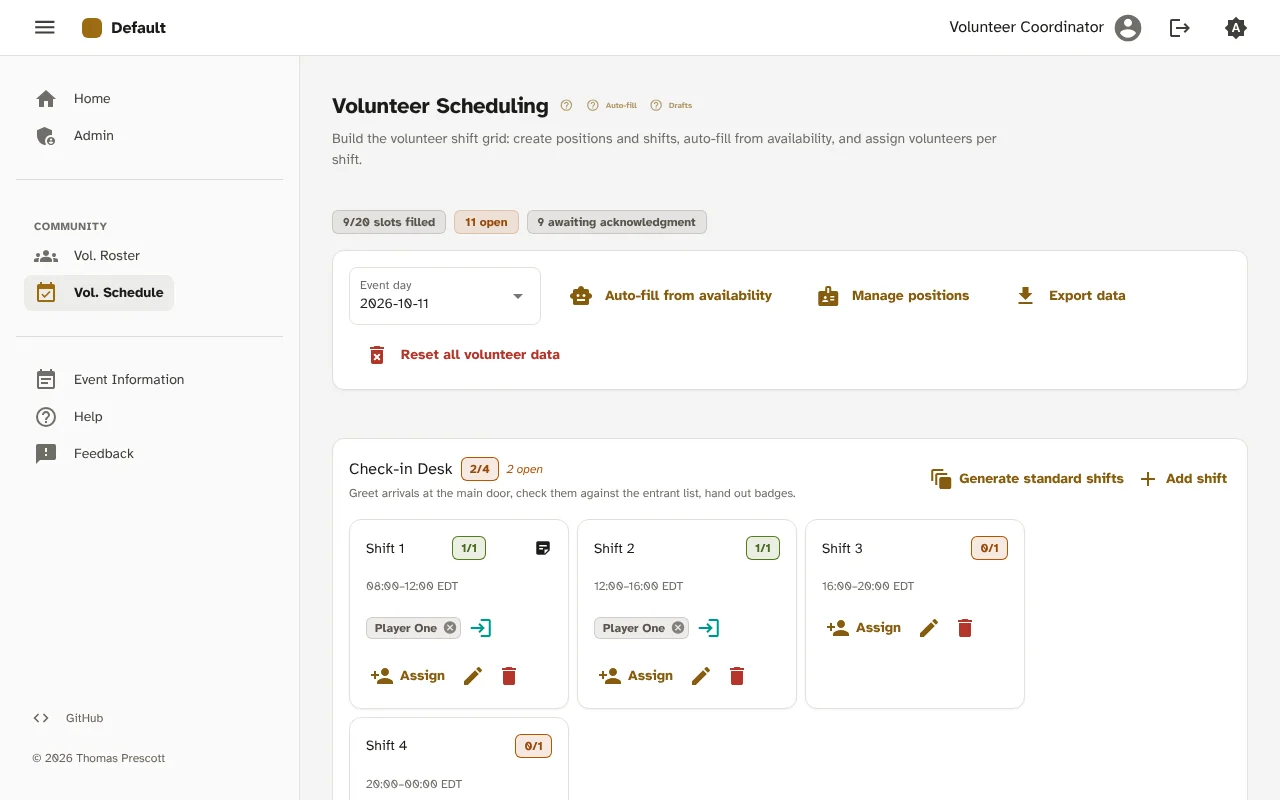
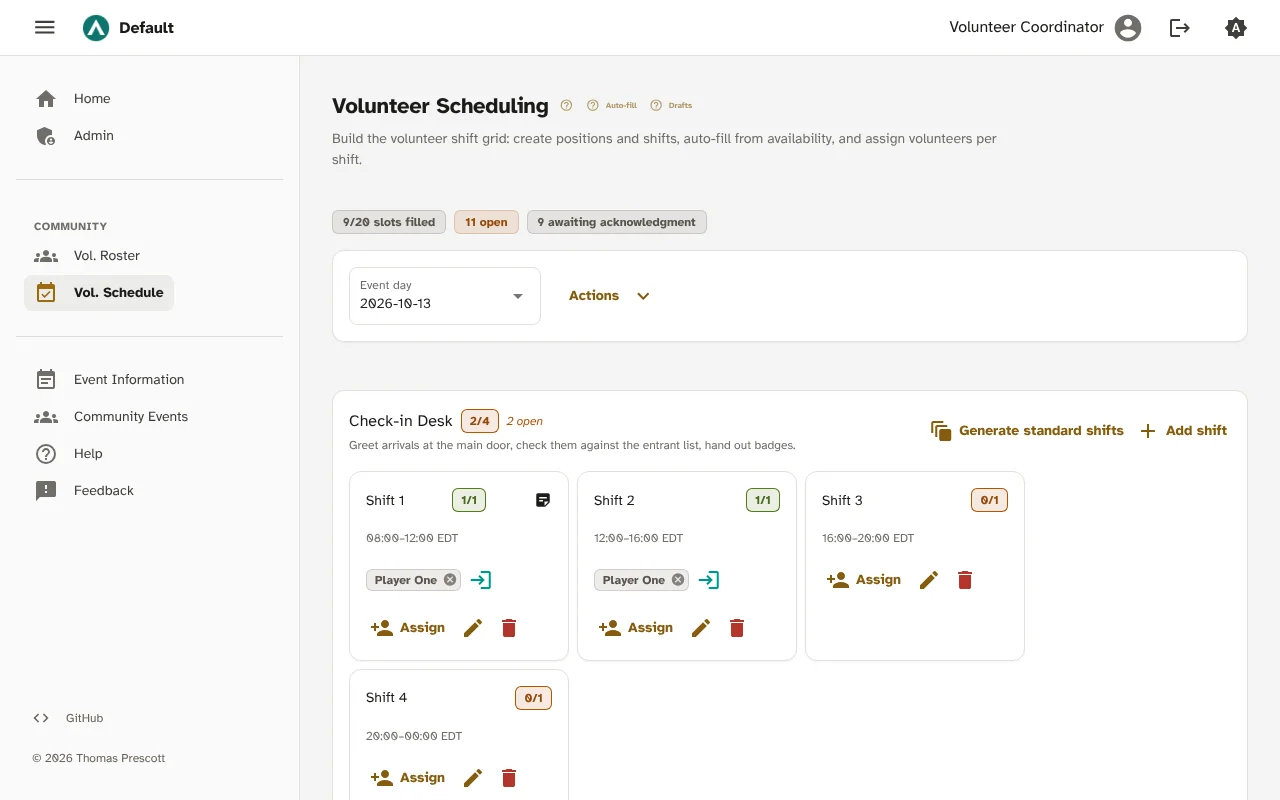
Put Vol. Schedule toolbar actions behind one Actions menu
Auto-fill, Manage positions, Export data and Reset all volunteer data
were four buttons beside the day picker that wrapped onto several lines
on a phone. They now share one Actions menu on every screen size, with
the reset set apart below a separator. Help text and the schedule
screenshot follow.

Claude-Session: https://claude.ai/code/session_01P7YforGRp1evScD3rmiSyD

diff --git a/pages/admin_tabs/admin_volunteers.py b/pages/admin_tabs/admin_volunteers.py
@@ -51,6 +51,13 @@ def stored_or_default_day(
     return stored if stored in day_options else fallback
 
 
+def _menu_action(icon: str, label: str, on_click, negative: bool = False) -> None:
+    with ui.menu_item(on_click=on_click).classes('text-negative' if negative else ''):
+        with ui.item_section().props('avatar'):
+            ui.icon(icon)
+        ui.item_section(label)
+
+
 async def admin_volunteers_page(day: str | None = None) -> None:
     actor = await get_user_from_discord_id(app.storage.user.get('discord_id'))
     if not await AuthService.can_manage_volunteers(actor):
@@ -147,15 +154,14 @@ async def admin_volunteers_page(day: str | None = None) -> None:
                     refresh_all()
                 day_select.on_value_change(on_day_change)
 
-                ui.button('Auto-fill from availability', icon='smart_toy',
-                          on_click=lambda: auto_fill()).props('flat color=primary')
-                ui.button('Manage positions', icon='badge',
-                          on_click=lambda: open_positions_dialog()).props('flat')
-                ui.button('Export data', icon='download',
-                          on_click=lambda: VolunteerExportDialog().open()) \
-                    .props('flat').tooltip('Download the roster, availability and schedule as CSVs')
-                ui.button('Reset all volunteer data', icon='delete_forever',
-                          on_click=lambda: open_reset_dialog()).props('flat color=negative')
+                with ui.button('Actions').props('flat color=primary icon-right=expand_more'):
+                    with ui.menu():
+                        _menu_action('smart_toy', 'Auto-fill from availability', lambda: auto_fill())
+                        _menu_action('badge', 'Manage positions', lambda: open_positions_dialog())
+                        _menu_action('download', 'Export data', lambda: VolunteerExportDialog().open())
+                        ui.separator()
+                        _menu_action('delete_forever', 'Reset all volunteer data',
+                                     lambda: open_reset_dialog(), negative=True)
 
         # --- Draft banner ------------------------------------------------
         banner_container = ui.column().classes('full-width')

diff --git a/application/help/content/coordinating-volunteers.md b/application/help/content/coordinating-volunteers.md
@@ -16,7 +16,8 @@ role can open. The roster, hour totals and the export are in
 
 :::snippet vol-schedule
 **Vol. Schedule** shows one event day at a time. Pick the day at the top; the
-list comes from the event dates in Settings → Event. A day runs from midnight to
+list comes from the event dates in Settings → Event. The **Actions** menu beside
+it holds auto-fill, positions, the export and the reset. A day runs from midnight to
 6am the next morning, so a shift that ends after midnight still shows on the day
 it started.
 
@@ -28,11 +29,11 @@ Below that, every active position gets a card with its shifts for the day. A
 shift's badge reads filled/needed and turns amber while it's short.
 :::
 
-![Vol. Schedule for one event day: the coverage chips, the day picker and buttons, and the Check-in Desk position with its four shifts](/static/help/coordinating-volunteers/schedule-desktop.webp)
+![Vol. Schedule for one event day: the coverage chips, the day picker and Actions menu, and the Check-in Desk position with its four shifts](/static/help/coordinating-volunteers/schedule-desktop.webp)
 
 ## Positions
 
-A position is a job, like Registration or Stage Crew. **Manage positions** lists
+A position is a job, like Registration or Stage Crew. **Actions → Manage positions** lists
 them all and opens each one for editing.
 
 | Field | What it does |
@@ -128,7 +129,7 @@ and talk to you.
 ## The auto-scheduler
 
 :::snippet vol-autofill
-**Auto-fill from availability** drafts assignments for the open slots on the day
+**Actions → Auto-fill from availability** drafts assignments for the open slots on the day
 you're looking at. It asks three things first:
 
 - **Maximum hours per volunteer**, across this day. It starts at 8. Leave it blank
@@ -208,7 +209,7 @@ the day of the shift.
 
 ## Starting over
 
-**Reset all volunteer data** deletes every shift and every assignment on every
+**Actions → Reset all volunteer data** deletes every shift and every assignment on every
 day. Positions, availability and qualifications stay. Anyone with a shift still
 to come gets a DM that they're off it. You have to type a confirmation phrase,
 and there's no undo, so export first if you might want the old schedule back.

diff --git a/application/help/content/volunteer-hours-and-export.md b/application/help/content/volunteer-hours-and-export.md
@@ -79,7 +79,7 @@ Two things a coordinator will want changed live where only staff can reach them:
 
 ## Exporting the data
 
-**Export data** is on both Vol. Roster and Vol. Schedule. Pick a date range (it
+**Export data** is on Vol. Roster, and in the **Actions** menu on Vol. Schedule. Pick a date range (it
 starts as the event dates) and you get a ZIP with a README and six CSV files:
 
 | File | One row per |

diff --git a/application/changelog/changes/2026-10-13-vol-schedule-actions-menu.md b/application/changelog/changes/2026-10-13-vol-schedule-actions-menu.md
@@ -1,0 +1,3 @@
+- On Vol. Schedule, Auto-fill, Manage positions, Export data and Reset all
+  volunteer data now sit in one **Actions** menu next to the day picker, so the
+  toolbar fits on a phone.
